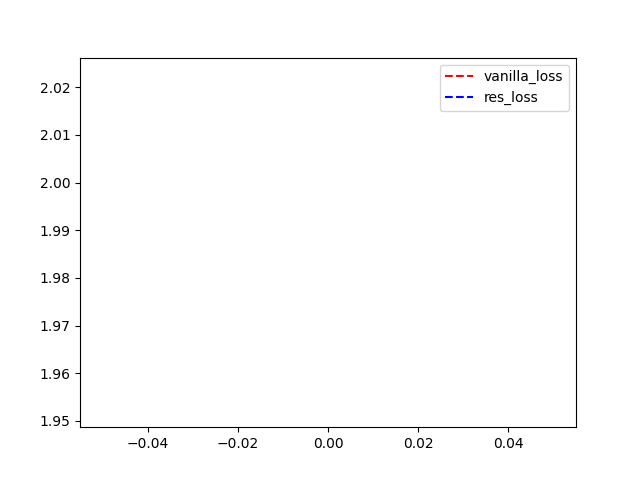
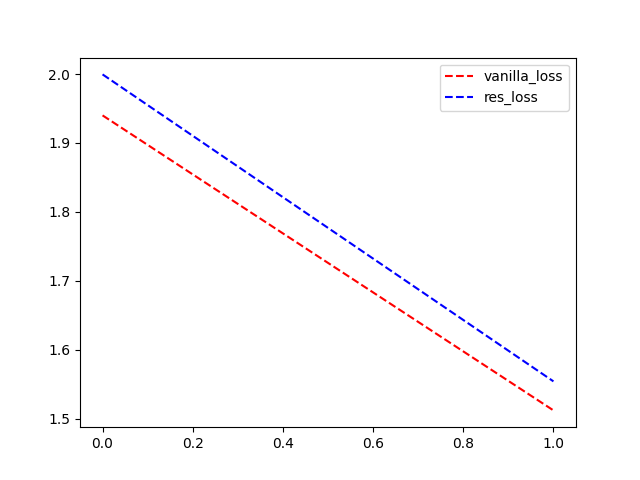
update readme

diff --git a/ResNet/train.py b/ResNet/train.py
@@ -50,7 +50,7 @@ def res_test_step(images, labels):
     res_test_accuracy(labels, predictions)
 
 
-EPOCHS = 1
+EPOCHS = 2
 
 #ResNet50 Train
 res_loss = []
@@ -160,24 +160,24 @@ print(vanilla.summary())
 import matplotlib.pyplot as plt
 plt.plot(vanilla_loss, '--r', label='vanilla_loss')
 plt.plot(res_loss, '--b', label='res_loss')
-leg2 = plt.legend()
+plt.legend()
 plt.savefig('train_loss.png')
 plt.clf()
 
 plt.plot(vanilla_val_loss, '--r', label='vanilla_test_loss')
 plt.plot(res_val_loss, '--b', label='res_test_loss')
 plt.savefig('test_loss.png')
-leg2 = plt.legend()
+plt.legend()
 plt.clf()
 
 plt.plot(vanilla_train_acc, '--r', label='vanilla_train_acc')
 plt.plot(res_train_acc, '--b', label='res_train_acc')
 plt.savefig('train_acc.png')
-leg3 = plt.legend()
+plt.legend()
 plt.clf()
 
 plt.plot(vanilla_test_acc, '--r', label='vanilla_test_acc')
 plt.plot(res_test_acc, '--b', label='res_test_acc')
-leg4 = plt.legend()
+plt.legend()
 plt.savefig('test_acc.png')
 

diff --git a/ResNet/README.md b/ResNet/README.md
@@ -16,3 +16,19 @@ G(x) = F(x) + x where x acts like a residual. Much easier to minimize the residu
 This residual framework can be realized by "shortcut" connections - Fig2 in Paper
 
 ResNet 50 architecture that I implemented: http://ethereon.github.io/netscope/#/gist/db945b393d40bfa26006
+
+ResNet50 Model Results on cifar10 compared to a plain vanilla 50 layer model:
+
+
+Training Loss Comparison
+![Tranining Loss](train_loss.png?raw=true)
+
+Test Loss Comparison
+![Test Loss](test_loss.png?raw=true)
+
+Training Accuracy Comparison
+![Training Accuracy](train_acc.png?raw=true)
+
+
+Test Accuracy Comparison
+![Test Accuracy](test_acc.png?raw=true)
